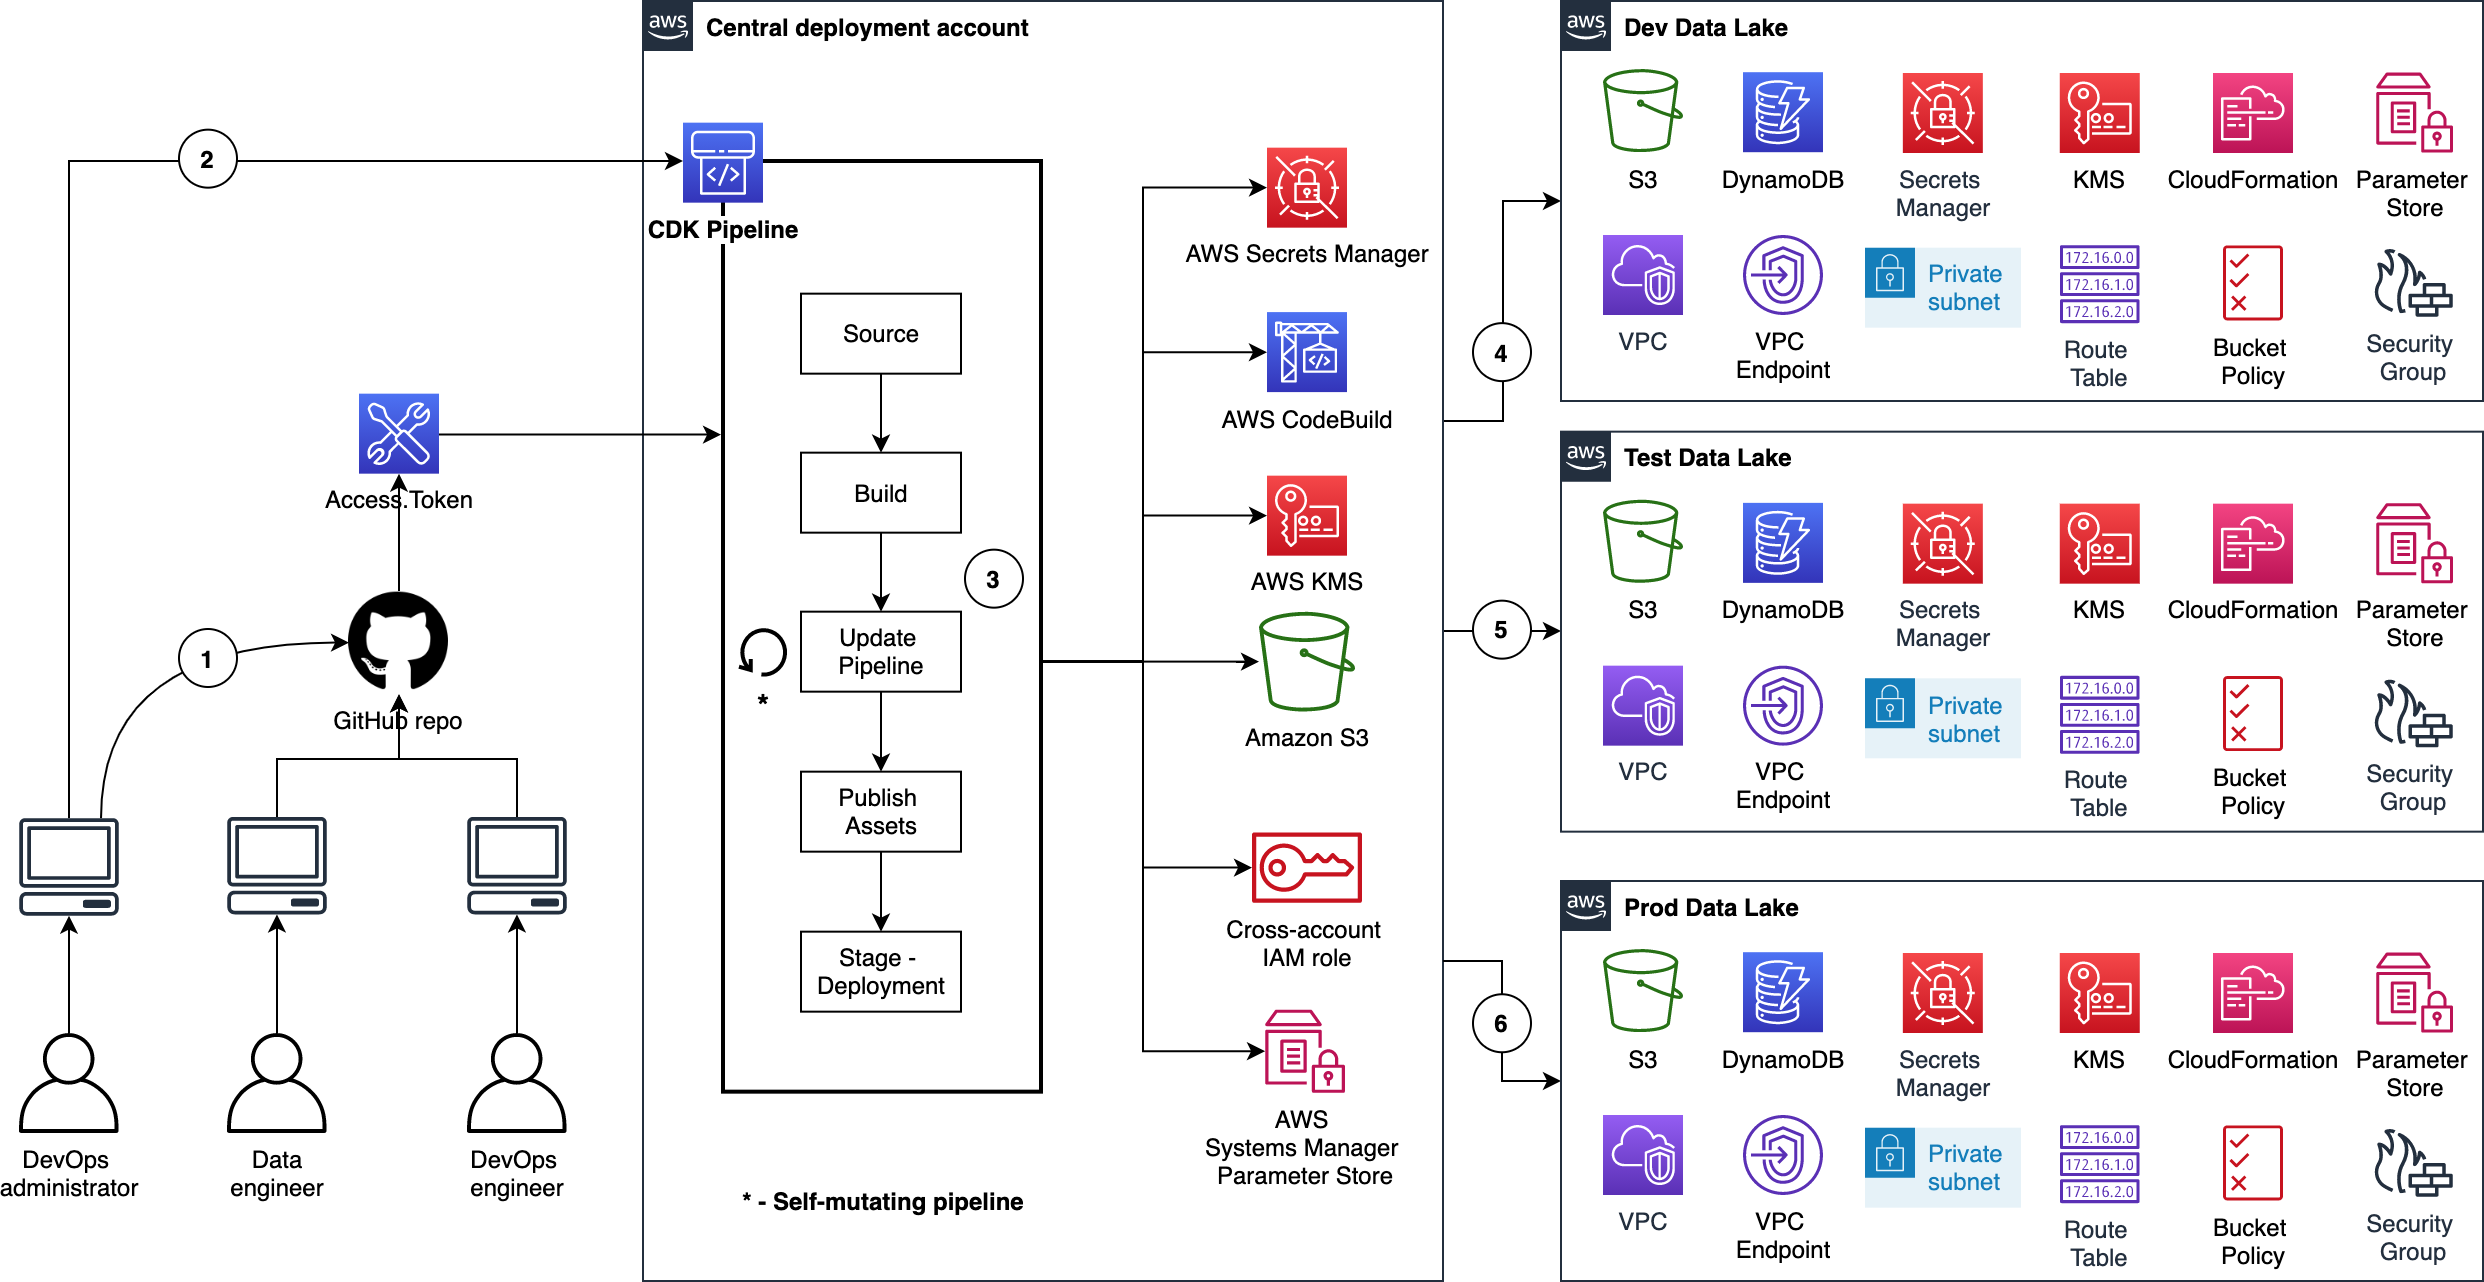
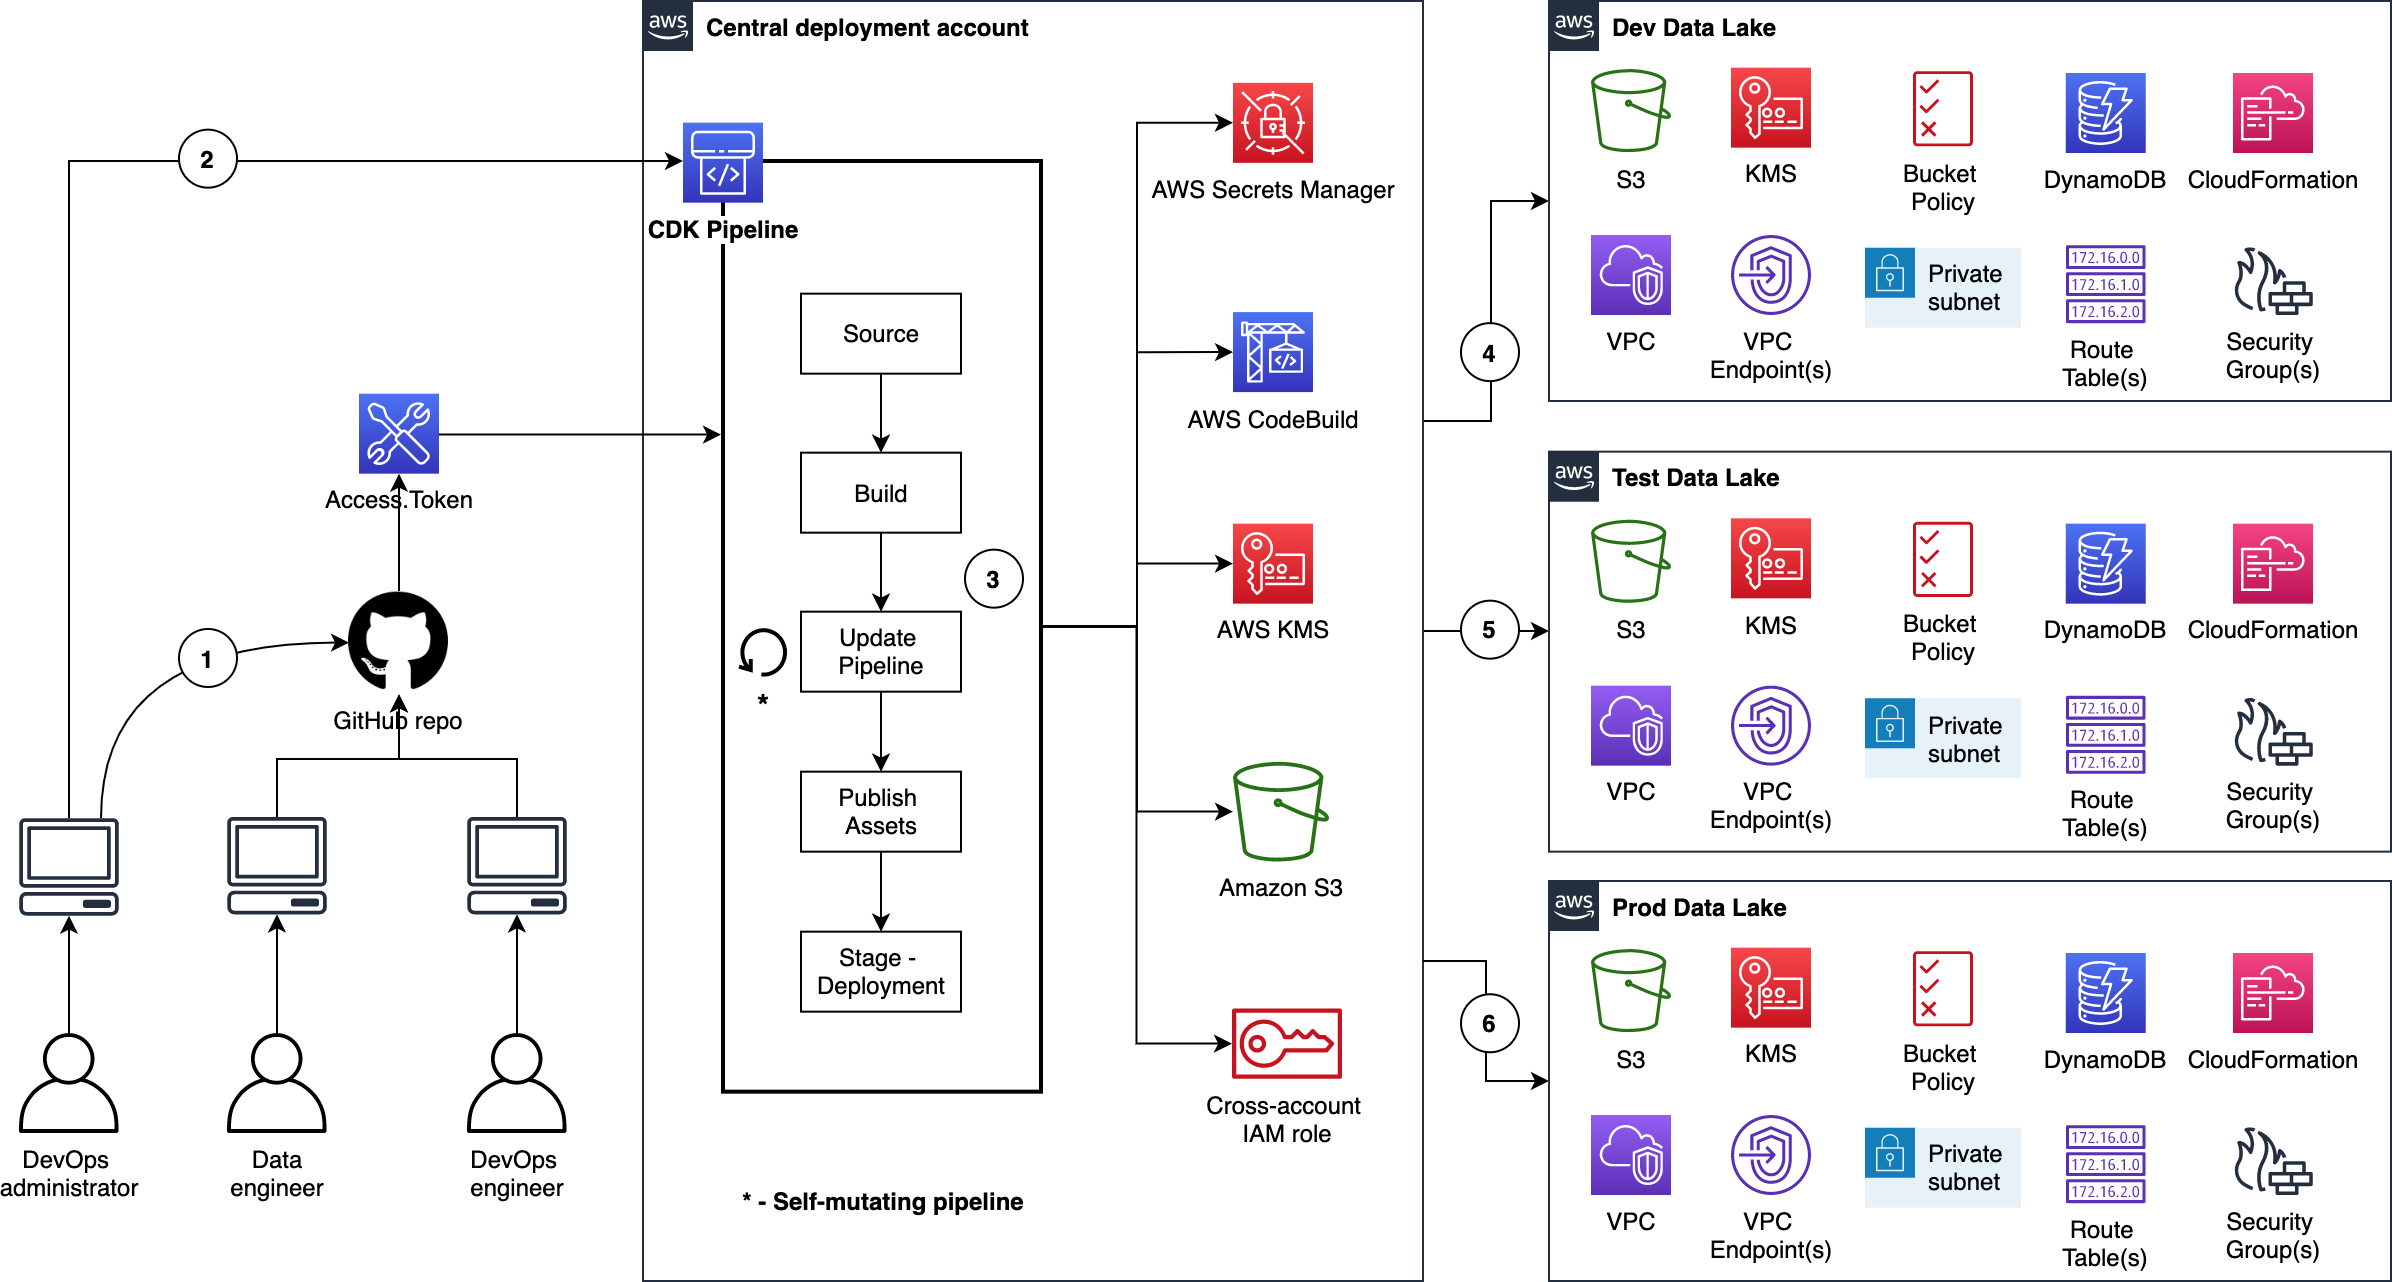
Cdk testing (#11)
* CDK end-to-end testing with branch cdk_testing

* updated LOGICAL_ID_PREFIX

* Updated readme.md per end-to-end testing

Updated readme.md per end-to-end testing after the removal of SSM
parameter. Minor code changes.

* grabbed changes from main

* updated images after descoping parameter store

* IAM stack deleted for DDB. Its dependent changes are made

diff --git a/lib/pipeline_deploy_stage.py b/lib/pipeline_deploy_stage.py
@@ -4,7 +4,6 @@
 import aws_cdk.core as cdk
 from .vpc_stack import VpcStack
 from .s3_bucket_zones_stack import S3BucketZonesStack
-from .iam_stack import IamStack
 from .tagging import tag
 from .configuration import get_logical_id_prefix
 
@@ -43,13 +42,6 @@ class PipelineDeployStage(cdk.Stage):
             deployment_account_id=deployment_account_id,
             **kwargs,
         )
-        iam_stack = IamStack(
-            self,
-            f'{target_environment}{logical_id_prefix}InfrastructureIam',
-            target_environment=target_environment,
-            deployment_account_id=deployment_account_id,
-        )
 
         tag(vpc_stack, target_environment)
         tag(bucket_stack, target_environment)
-        tag(iam_stack, target_environment)

diff --git a/lib/configuration.py b/lib/configuration.py
@@ -41,7 +41,6 @@ S3_ACCESS_LOG_BUCKET = 's3_access_log_bucket'
 S3_RAW_BUCKET = 's3_raw_bucket'
 S3_CONFORMED_BUCKET = 's3_conformed_bucket'
 S3_PURPOSE_BUILT_BUCKET = 's3_purpose_built_bucket'
-CROSS_ACCOUNT_DYNAMODB_ROLE = 'cross_account_dynamodb_role'
 
 
 def get_local_configuration(environment: str) -> dict:
@@ -126,7 +125,6 @@ def get_environment_configuration(environment: str) -> dict:
         S3_RAW_BUCKET: f'{environment}RawBucketName',
         S3_CONFORMED_BUCKET: f'{environment}ConformedBucketName',
         S3_PURPOSE_BUILT_BUCKET: f'{environment}PurposeBuiltBucketName',
-        CROSS_ACCOUNT_DYNAMODB_ROLE: f'{environment}CrossAccountDynamoDbRoleArn'
     }
 
     return {**cloudformation_output_mapping, **get_local_configuration(environment)}

diff --git a/README.md b/README.md
@@ -260,13 +260,14 @@ Environment bootstrap is standard CDK process to prepare an AWS environment read
     }? (y/n)y
     ```
 
- 1. Expected output 1: In your terminal, you see ✅  Environment aws://deployment_account_id/us-east-2 bootstrapped.
+ 1. Expected outputs:
+    1. In your terminal, you see ✅  Environment aws://deployment_account_id/us-east-2 bootstrapped.
 
- 1. Expected output 2: you see a stack created in your deployment account as follows
+    1. You see a stack created in your deployment account as follows
 
-    ![bootstrap_central_deployment_account](./resources/bootstrap_central_deployment_account_exp_output.png)
+       ![bootstrap_central_deployment_account](./resources/bootstrap_central_deployment_account_exp_output.png)
 
- 1. Expected output 3: you see an S3 bucket created in central deployment account. The name is like ```cdk-hnb659fds-<assets-deployment_account_id>-us-east-2```
+    1. You see an S3 bucket created in central deployment account. The name is like ```cdk-hnb659fds-<assets-deployment_account_id>-us-east-2```
 
  1. Before you bootstrap **dev** account, set environment variable
 
@@ -292,13 +293,14 @@ Environment bootstrap is standard CDK process to prepare an AWS environment read
     } providing a trust relationship to: deployment_account_id using policy arn:aws:iam::aws:policy/AdministratorAccess? (y/n)
     ```
 
- 1. Expected output 1: In your terminal, you see ✅  Environment aws://dev_account_id/us-east-2 bootstrapped.
+ 1. Expected outputs:
+    1. In your terminal, you see ✅  Environment aws://dev_account_id/us-east-2 bootstrapped.
 
- 1. Expected output 2: you see a stack created in your deployment account as follows
+    1. You see a stack created in your deployment account as follows
 
-    ![bootstrap_central_deployment_account](./resources/bootstrap_central_deployment_account_exp_output.png)
+       ![bootstrap_central_deployment_account](./resources/bootstrap_central_deployment_account_exp_output.png)
 
- 1. Expected output 3: you see an S3 bucket created in central deployment account. The name is like ```cdk-hnb659fds-assets-<dev_account_id>-us-east-2```
+    1. You see an S3 bucket created in central deployment account. The name is like ```cdk-hnb659fds-assets-<dev_account_id>-us-east-2```
 
  1. Before you bootstrap **test** account, set environment variable
 
@@ -324,13 +326,14 @@ Environment bootstrap is standard CDK process to prepare an AWS environment read
     } providing a trust relationship to: deployment_account_id using policy arn:aws:iam::aws:policy/AdministratorAccess? (y/n)
     ```
 
- 1. Expected output 1: In your terminal, you see ✅  Environment aws://test_account_id/us-east-2 bootstrapped.
+ 1. Expected outputs:
+    1. In your terminal, you see ✅  Environment aws://test_account_id/us-east-2 bootstrapped.
 
- 1. Expected output 2: you see a stack created in your Deployment account as follows
+    1. You see a stack created in your Deployment account as follows
 
-    ![bootstrap_central_deployment_account](./resources/bootstrap_central_deployment_account_exp_output.png)
+        ![bootstrap_central_deployment_account](./resources/bootstrap_central_deployment_account_exp_output.png)
 
- 1. Expected output 3: you see an S3 bucket created in central deployment account. The name is like ```cdk-hnb659fds-assets-<test_account_id>-us-east-2```
+    1. You see an S3 bucket created in central deployment account. The name is like ```cdk-hnb659fds-assets-<test_account_id>-us-east-2```
 
  1. Before you bootstrap **prod** account, set environment variable
 
@@ -356,13 +359,14 @@ Environment bootstrap is standard CDK process to prepare an AWS environment read
     } providing a trust relationship to: deployment_account_id using policy arn:aws:iam::aws:policy/AdministratorAccess? (y/n)
     ```
 
- 1. Expected output 1: In your terminal, you see ✅  Environment aws://prod_account_id/us-east-2 bootstrapped.
+ 1. Expected outputs:
+    1. In your terminal, you see ✅  Environment aws://prod_account_id/us-east-2 bootstrapped.
 
- 1. Expected output 2: you see a stack created in your Deployment account as follows
+    1. You see a stack created in your Deployment account as follows
 
-    ![bootstrap_central_deployment_account](./resources/bootstrap_central_deployment_account_exp_output.png)
+        ![bootstrap_central_deployment_account](./resources/bootstrap_central_deployment_account_exp_output.png)
 
- 1. Expected output 3: you see an S3 bucket created in central deployment account. The name is like ```cdk-hnb659fds-assets-<prod_account_id>-us-east-2```
+    1. You see an S3 bucket created in central deployment account. The name is like ```cdk-hnb659fds-assets-<prod_account_id>-us-east-2```
 
 ---
 
